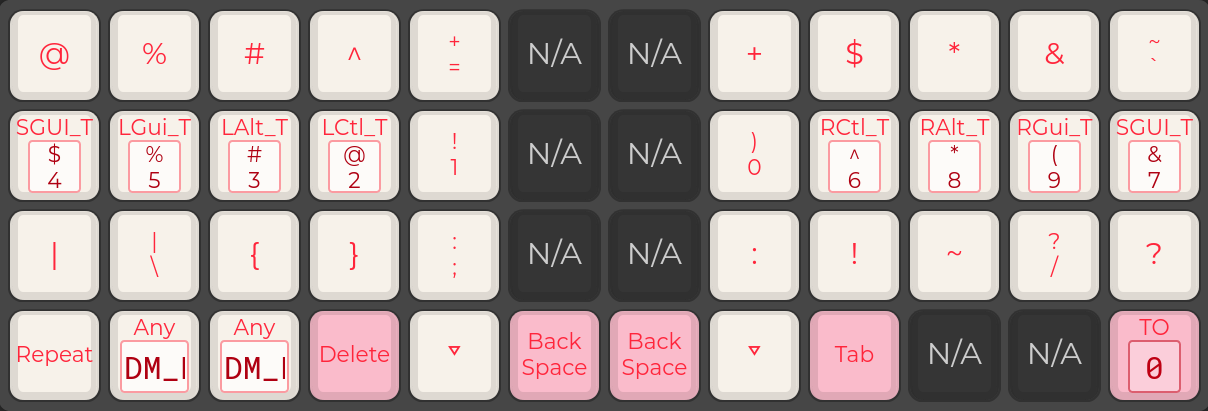
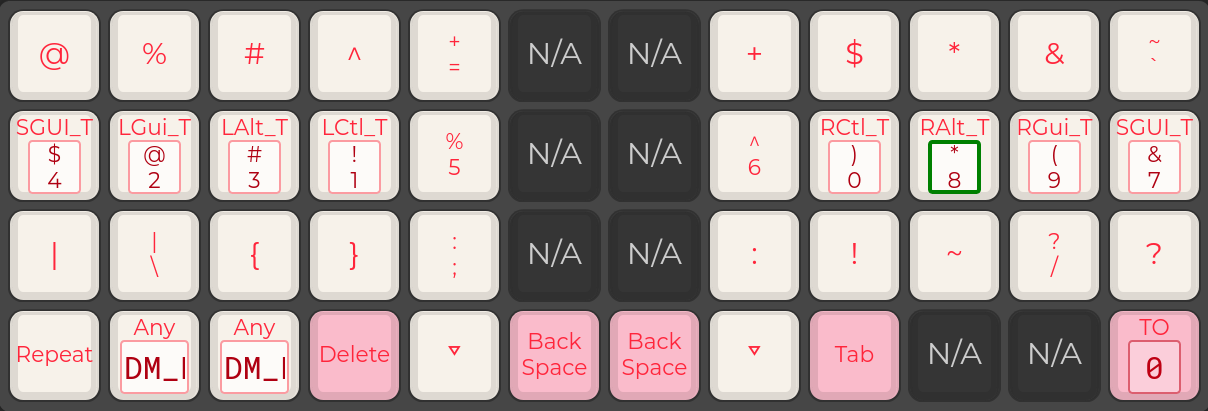
Rearrange numbers; Update layout JSON, images

diff --git a/keyboards/planck/rev7/keymaps/akyuute_minimal/keymap.c b/keyboards/planck/rev7/keymaps/akyuute_minimal/keymap.c
@@ -90,7 +90,7 @@ const uint16_t PROGMEM keymaps[][MATRIX_ROWS][MATRIX_COLS] = {
 //     ,----------+----------+----------+----------+----------+                     +----------+----------+----------+----------+----------.
         KC_AT,     KC_PERC,   KC_HASH,   KC_CIRC,   KC_EQL,        KC_NO, KC_NO,     KC_PLUS,   KC_DLR,    KC_ASTR,   KC_AMPR,   KC_GRV,
 //     |----------+----------+----------+----------+----------+                     +----------+----------+----------+----------+----------|
-        SG(KC_4),  LG(KC_5),  LA(KC_3),  LC(KC_2),  KC_1,          KC_NO, KC_NO,     KC_0,      RC(KC_6),  RA(KC_8),  RG(KC_9),  SG(KC_7),
+        SG(KC_4),  LG(KC_2),  LA(KC_3),  LC(KC_1),  KC_5,          KC_NO, KC_NO,     KC_6,      RC(KC_0),  RA(KC_8),  RG(KC_9),  SG(KC_7),
 //     |----------+----------+----------+----------+----------+                     +----------+----------+----------+----------+----------|
         KC_PIPE,   KC_BSLS,   KC_LCBR,   KC_RCBR,   KC_SCLN,       KC_NO, KC_NO,     KC_COLN,   KC_EXLM,   KC_TILD,   KC_SLSH,   KC_QUES,
 //     |----------+----------+----------+----------+----------+                     +----------+----------+----------+----------+----------|
